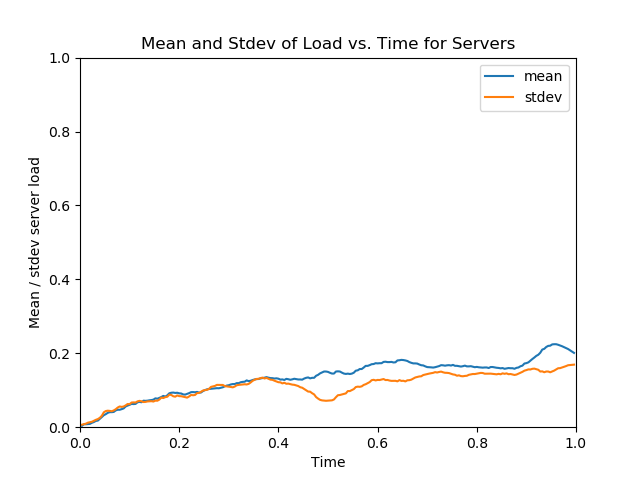
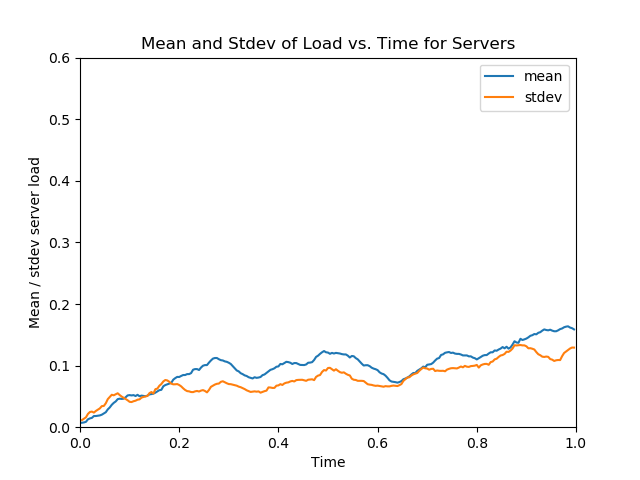
plots4pres

diff --git a/main.py b/main.py
@@ -196,7 +196,7 @@ def run_load_plotter(servers, assignment_method):
 		plt.xlabel('Time')
 		plt.ylabel('Load (Time til finish)')
 		plt.title('Load vs. Time for Servers')
-		plt.axis([0, 1, 0, 1])
+		plt.axis([0, 1, 0, 0.6])
 
 	plt.savefig('plots/SmallSystemWithFlows/' + assignment_method + '/LoadVsTimeForServers.png')
 	plt.clf()
@@ -218,7 +218,7 @@ def run_mean_and_stdev_plotter(servers, assignment_method):
 	plt.xlabel('Time')
 	plt.ylabel('Mean / stdev server load')
 	plt.title('Mean and Stdev of Load vs. Time for Servers')
-	plt.axis([0, 1, 0, 1])
+	plt.axis([0, 1, 0, 0.6])
 
 	plt.savefig('plots/SmallSystemWithFlows/' + assignment_method + '/MeanAndStdevLoadVsTimeForServers.png')
 	plt.clf()
@@ -273,7 +273,7 @@ def run_simulation(assignment_method):
 		if i < len(packets)/2:
 			lb_id = packet.clientid % num_load_balancers
 		else: #last load balancer "goes down"
-			lb_id = packet.clientid % (num_load_balancers - 1)
+			lb_id = packet.clientid % (num_load_balancers - 1
 
 		load_balancer = load_balancers[lb_id]
 		switcher = {
